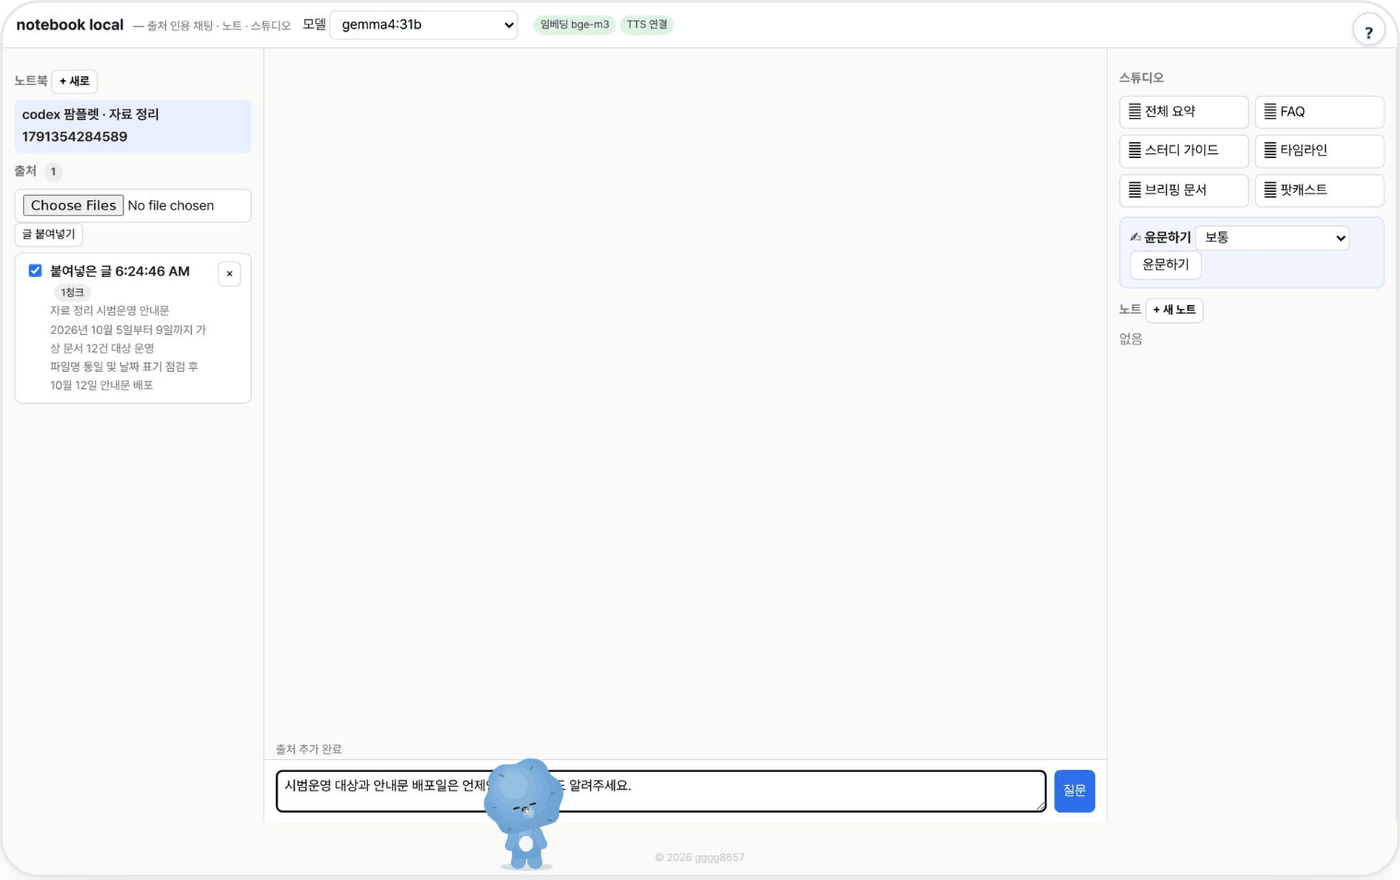
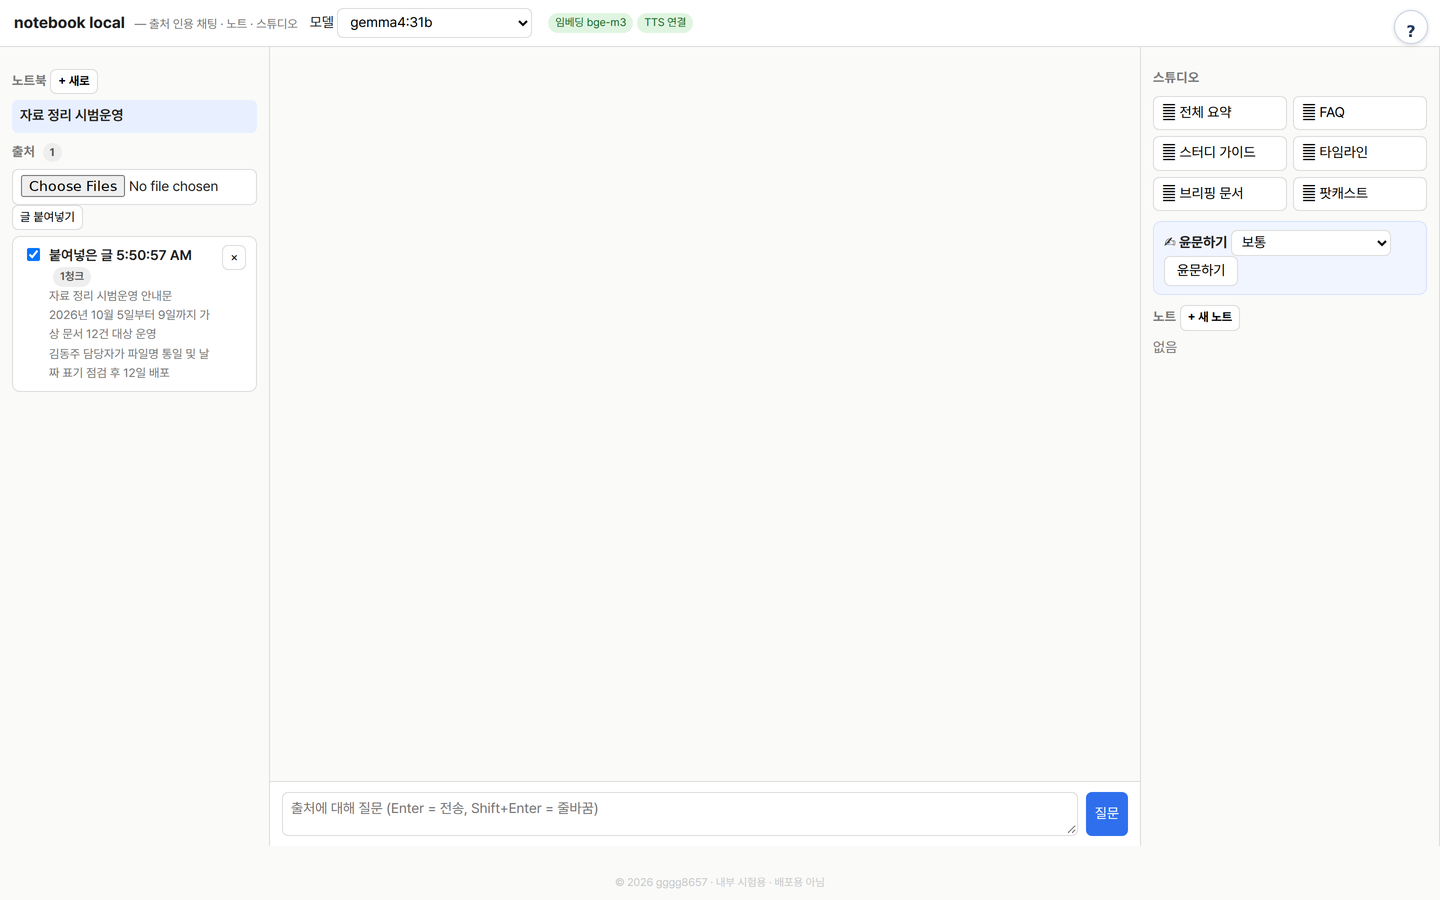
README 사용 화면·예시를 새 실행으로 교체
담당자 김동주가 들어간 출처로 노트북을 새로 만들어 질문하고 캡처.

diff --git a/README.md b/README.md
@@ -31,14 +31,14 @@
 
 ```text
 자료 정리 시범운영 안내
-시범운영 기간은 2026년 10월 5일부터 10월 9일까지이다. 대상은 가상 문서 12건이다. 담당자는 파일명을 통일하고 날짜 표기를 점검한다. 안내문은 10월 12일 배포한다. 예산은 이 자료에 기재하지 않았다.
+시범운영 기간은 2026년 10월 5일부터 10월 9일까지이다. 대상은 가상 문서 12건이다. 담당자는 김동주 석사후연수생(인공지능응용연구실)이며 파일명을 통일하고 날짜 표기를 점검한다. 안내문은 10월 12일 배포한다. 예산은 이 자료에 기재하지 않았다.
 ```
 
 질문 → 답변:
 
 ```text
-Q. 시범운영 대상과 안내문 배포일은 언제인가요? 예산도 알려주세요.
-A. 시범운영 대상은 가상 문서 12건이며, 안내문 배포일은 10월 12일입니다 [1]. 예산은 출처에 없음.
+Q. 시범운영 담당자와 안내문 배포일은 언제인가요? 예산도 알려주세요.
+A. 시범운영 담당자는 김동주 석사후연수생(인공지능응용연구실)이며, 안내문 배포일은 10월 12일입니다 [1]. 예산은 출처에 없음 [1].
 ```
 
 <details><summary>입력 화면</summary>
